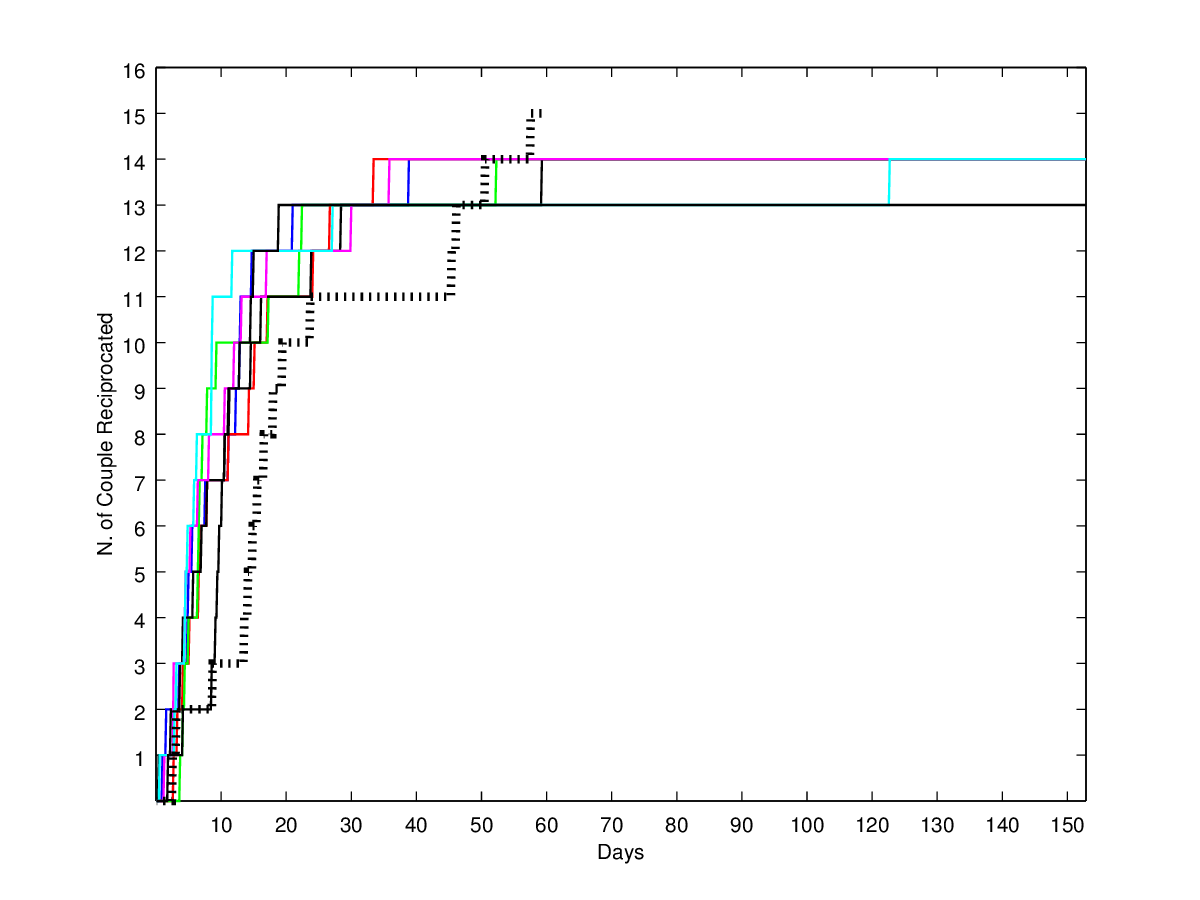
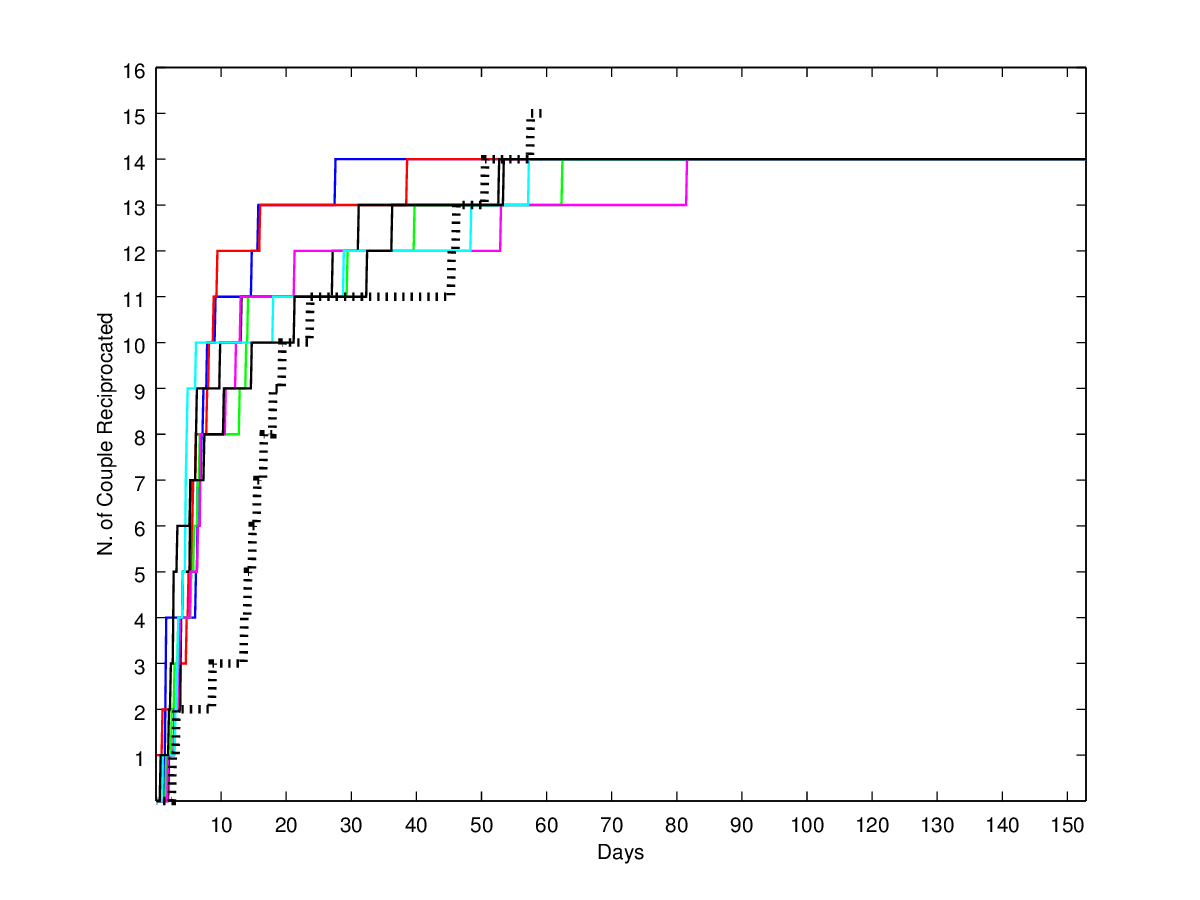
Final figures

Changed region(s): [[0.1233, 0.1556, 0.8942, 0.9022]]

diff --git a/test_run.m b/test_run.m
@@ -16,8 +16,8 @@ plotColor = 'brgkmck';
 % ‘c’	Cyan
 % ‘w’	White
 hold on
-Temp1 = 0.19/1.05;
-Temp2 = 0.27/1.05;
+Temp1 = 0.19;
+Temp2 = 0.27;
 Nrun = 1000
 
 for i = 1:7
